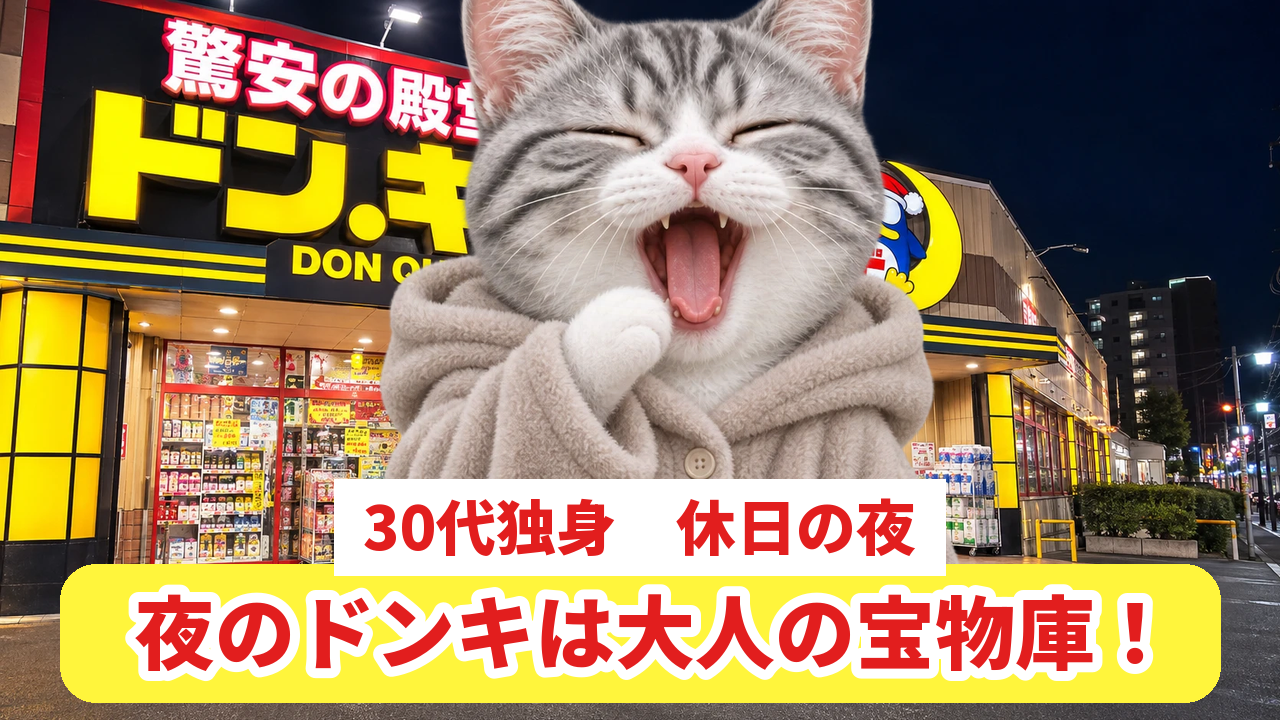
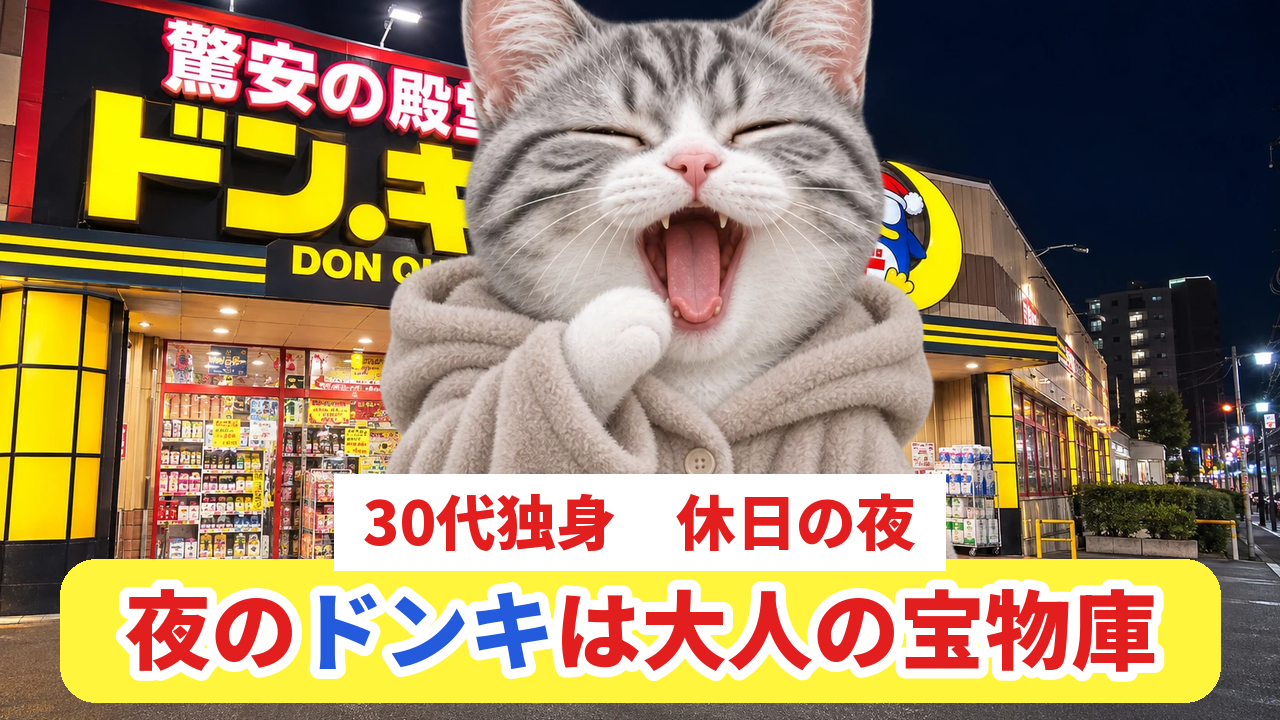
ドンキ サムネ：ドンキを青・！なし／README に「はみ出し型」字幕を追記
Claude-Session: https://claude.ai/code/session_011g9CsrfFD5YswfNSvNDW39

Changed region(s): [[0.0625, 0.6417, 0.9375, 0.9472]]

diff --git a/catmeme/make_thumb_donki.py b/catmeme/make_thumb_donki.py
@@ -32,7 +32,7 @@ def final():
     k = 880 / cat.width
     cat = cat.resize((880, int(cat.height * k)), Image.LANCZOS)
     img.alpha_composite(cat, ((T.W - cat.width) // 2, T.H - cat.height - 40))
-    big = T.runs([("夜のドンキは大人の宝物庫！", T.RED)], 170, 10, T.W - 220)
+    big = T.runs([("夜の", T.RED), ("ドンキ", T.BLUE), ("は大人の宝物庫", T.RED)], 170, 10, T.W - 220)   # 11/21：ドンキは青・！なし
     bh = big.height + 40
     by = T.H - bh - 18
     ImageDraw.Draw(img).rounded_rectangle((60, by, T.W - 60, by + bh), 36, fill=(255, 245, 60, 255))

diff --git a/catmeme/README.md b/catmeme/README.md
@@ -22,6 +22,7 @@
 - 自堕落シリーズの場面転換はゆっくりめ：J.TEMPO_K = 1.3（字幕1つを長く）・J.HOLD = 6・place() で J.prefer_long(cs)（短い素材を長い素材に替える）（11/17 ユーザー指定・競馬回から）
 - 自堕落シリーズの字幕は参考動画どおり「1行12字まで・最大2行・1つ2.5〜3秒」：J.SUB_SEC = (2.5, 3.0)・place() で J.reflow(cs)（11/17 ユーザー指定・競馬回から）
 - 「テンポ系」ショート（11/18 ユーザー指定・118 つけ麺から）：枠なし・右に絵（透過はそのまま）、左に大きな猫、白い太字。同じ猫を出しっぱなしで右の絵だけテンポよく替える。59.9秒でなくてよい（free_len=True）
+- 「はみ出し型」字幕（11/21 ユーザー命名・129 定時5分前から）：いつもの字幕と同じ大きさのまま、画面に収まりきらず右はしで切れる見せ方（例「ああああ…」）。world_short の cat_cap_over=True
 
 ## ショートの BGM と概要欄（10/23 ユーザー指定・これからのショート全部）
 - **ショートには BGM を入れない**（猫ミームの音と効果音だけ）

diff --git a/catmeme/scripts/jidaraku_25_donki_youtube.md b/catmeme/scripts/jidaraku_25_donki_youtube.md
@@ -1,6 +1,6 @@
 # 自堕落シリーズ #25 ドン・キホーテ：リンク・タイトル・説明文
 - 1080：https://github.com/bigdanclub/daniel/blob/claude/cat-meme-longform/catmeme/release/jidaraku_25_donki.mp4（4:27）
-- サムネ：thumbs/jidaraku_25_donki_thumb_final.png（30代独身 休日の夜／夜のドンキは大人の宝物庫！）
+- サムネ：thumbs/jidaraku_25_donki_thumb_final.png（30代独身 休日の夜／夜のドンキは大人の宝物庫 ※ドンキは青）
 
 タイトル案（11/21 ベンチマーク比較：短く・きっかけ入り）：
 1. 【猫ミーム】30代独身、休日の夜に予定がないので1人でドンキへ #猫ミーム #猫マニ
